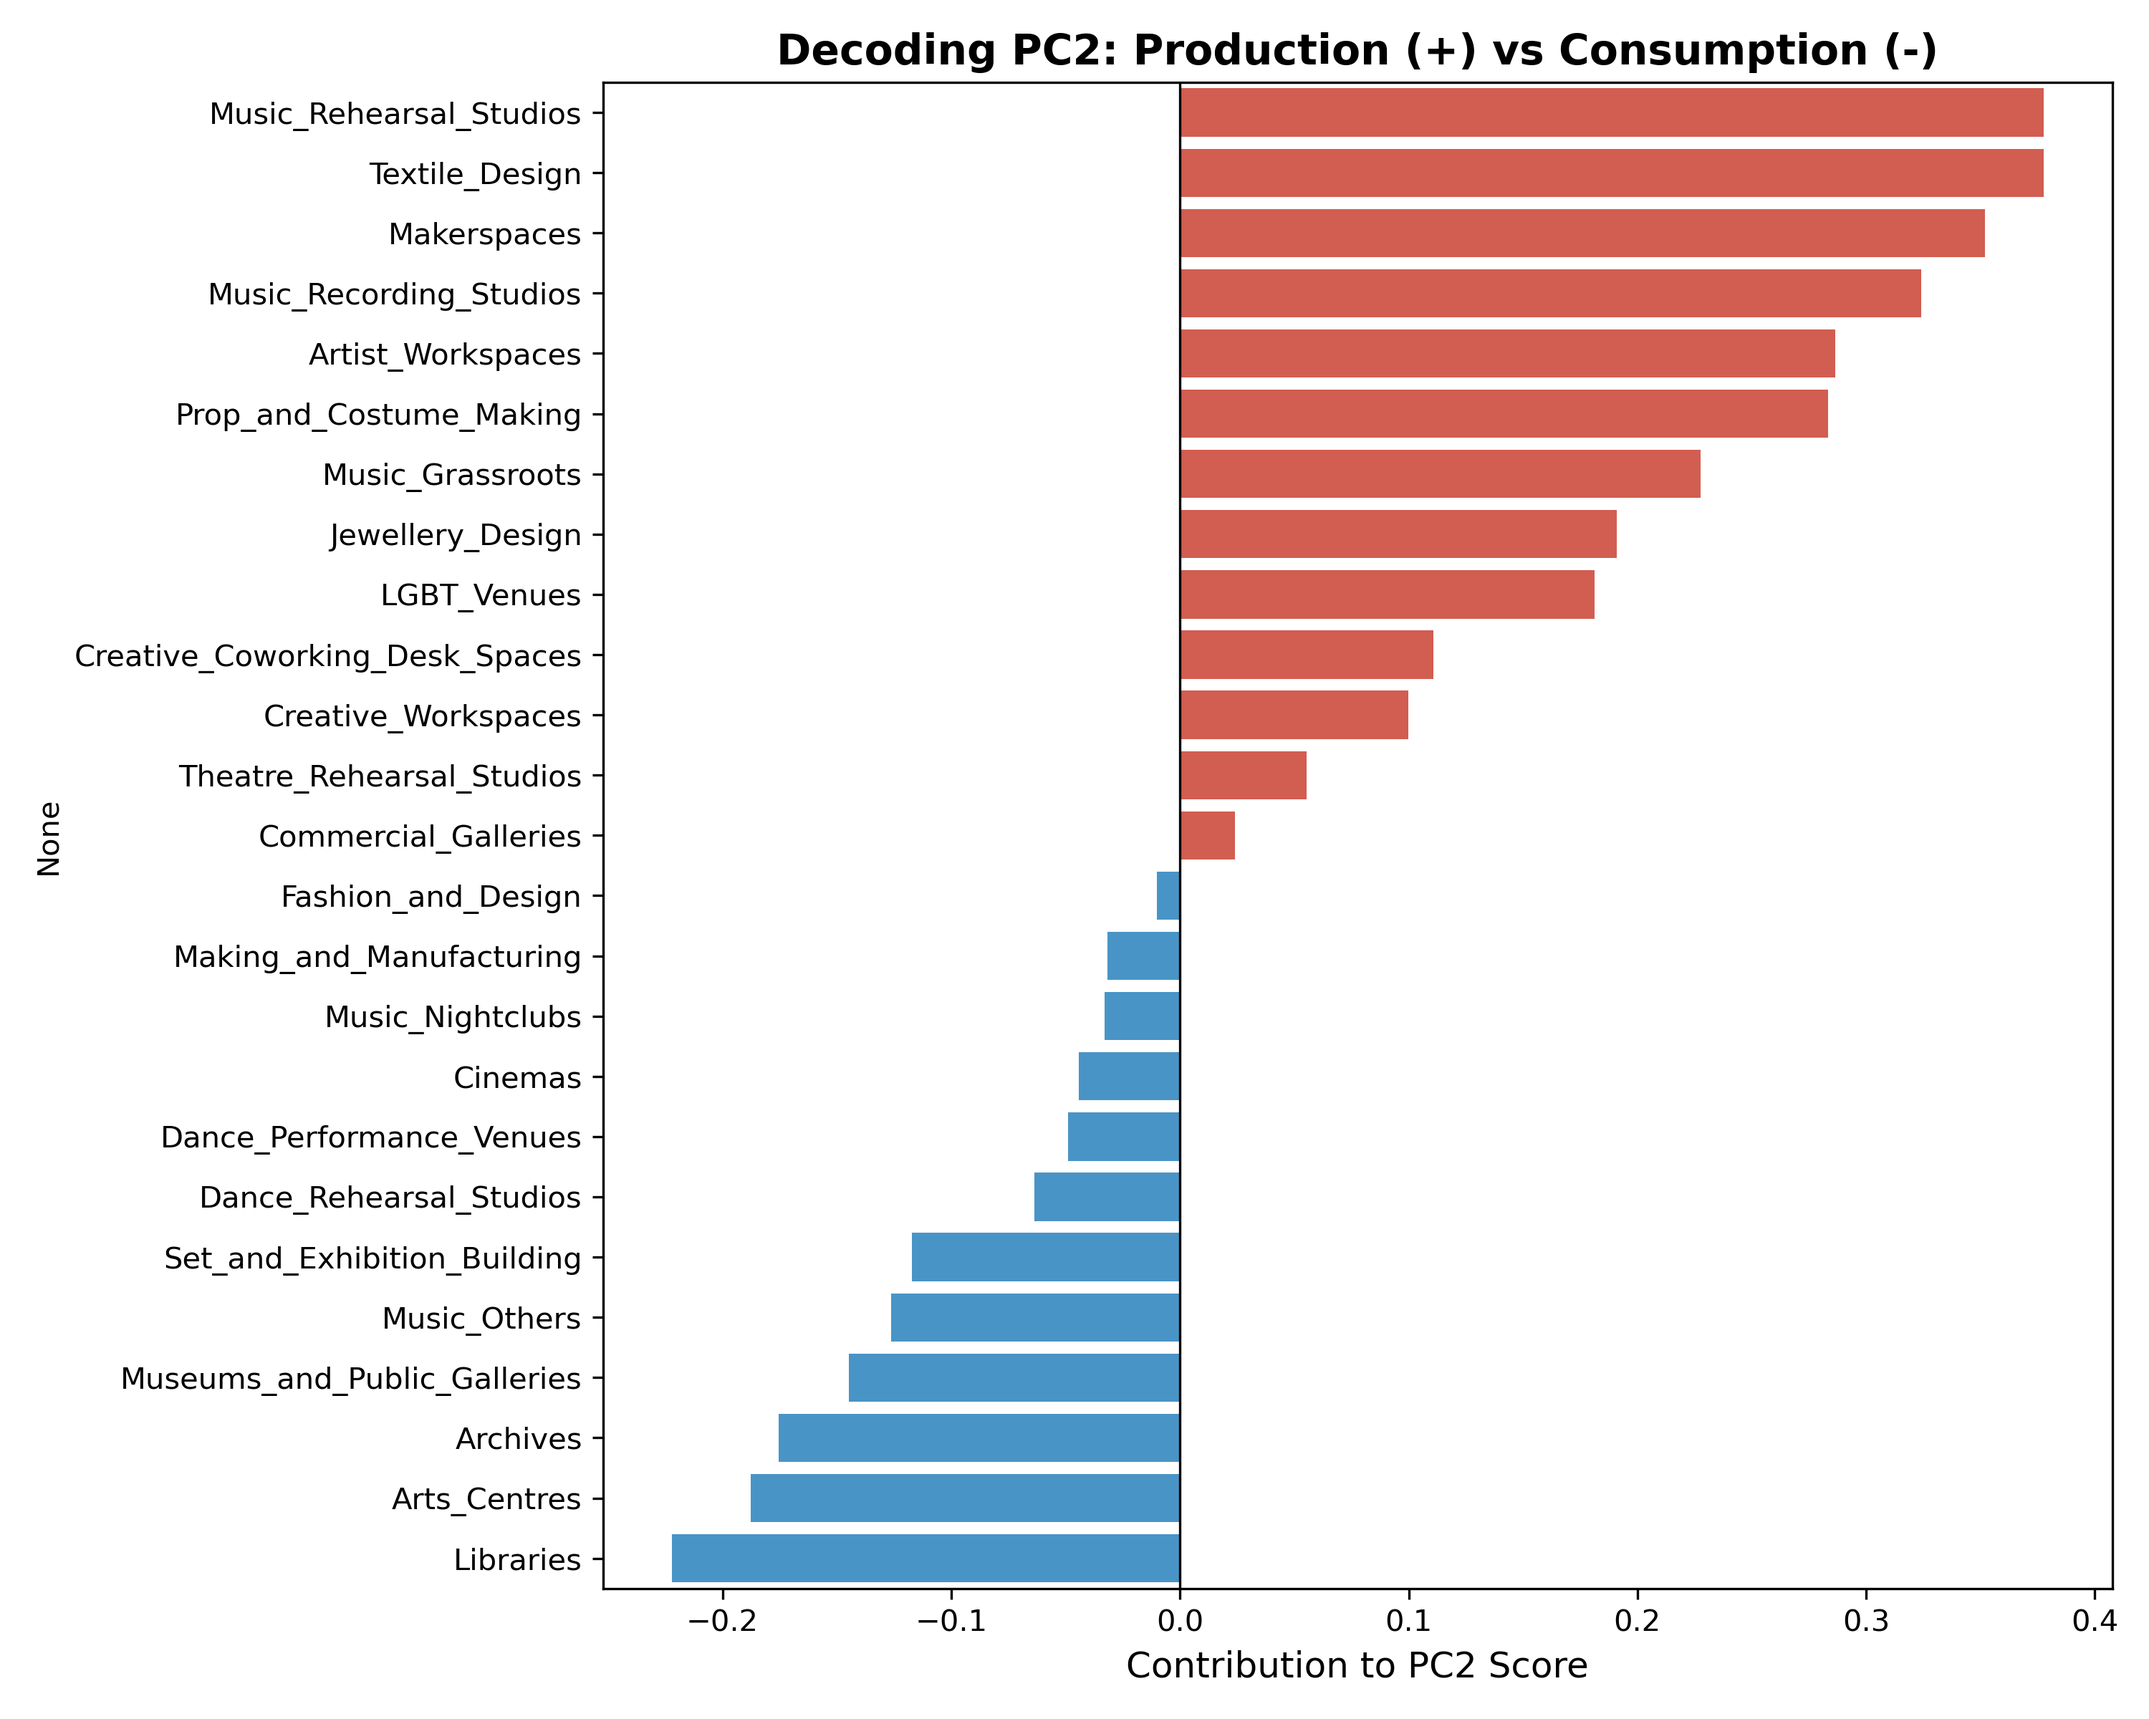
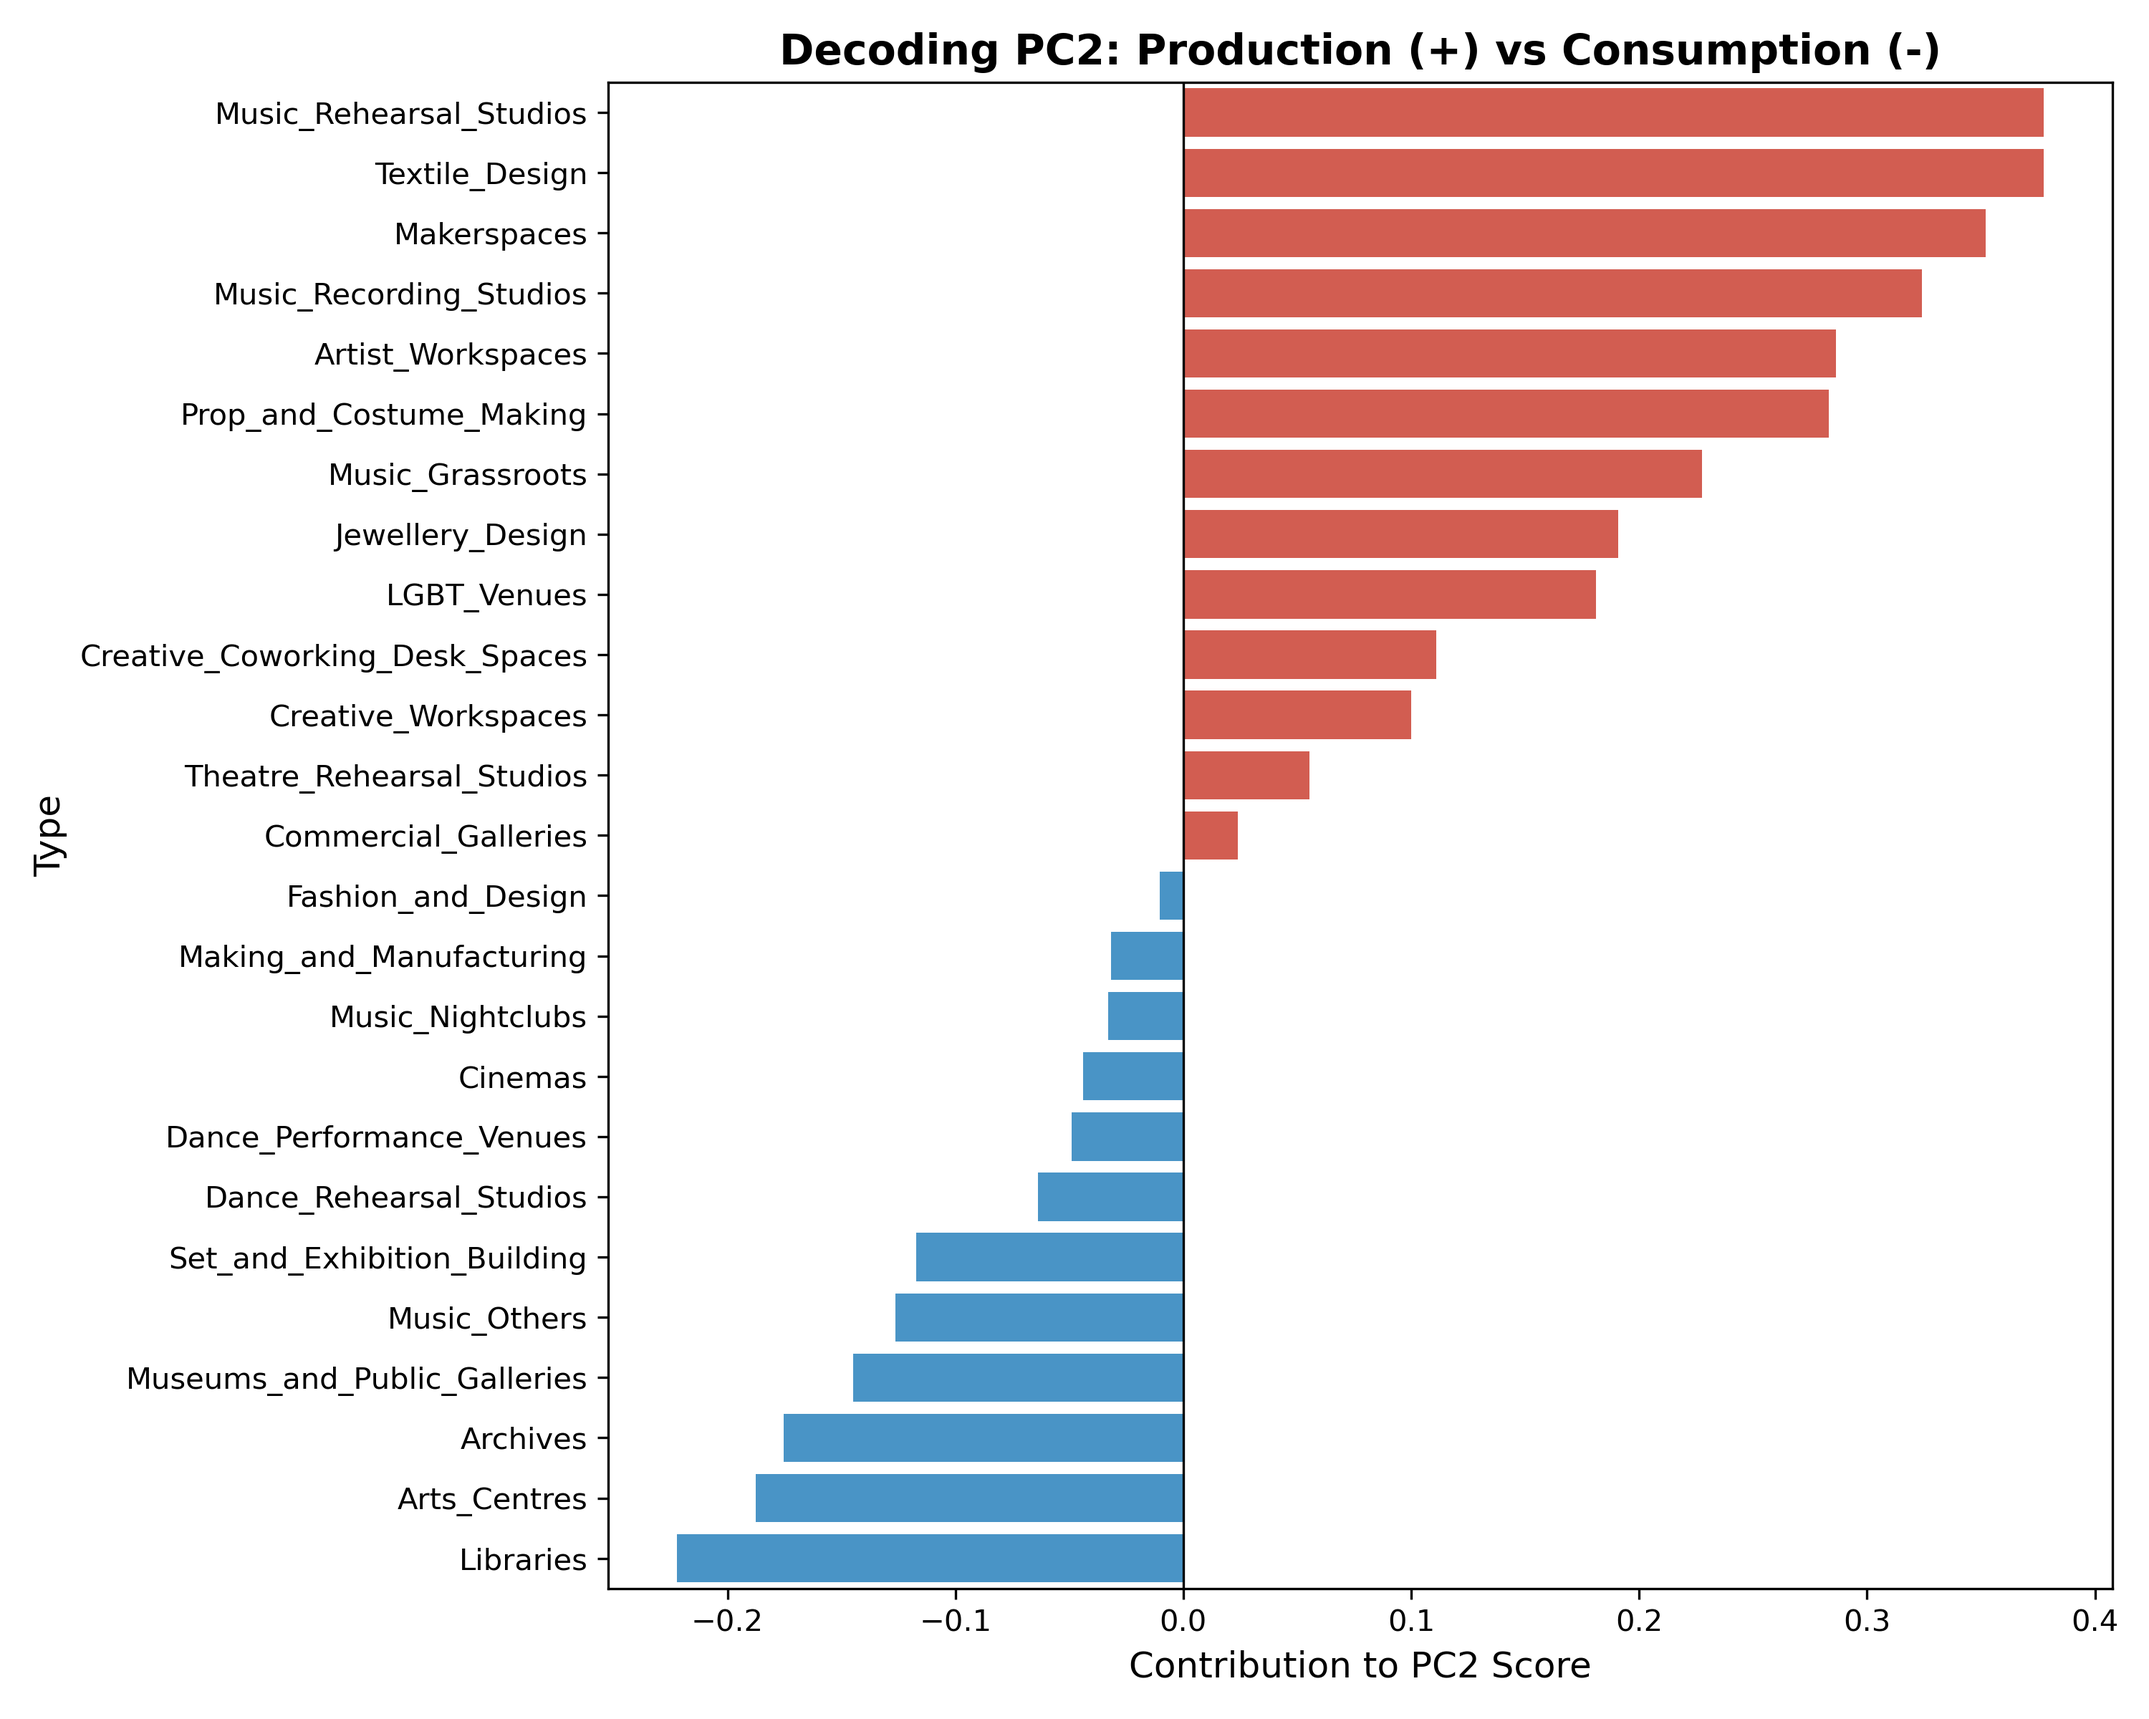
pictures

diff --git a/Assessment/generate_plots.py b/Assessment/generate_plots.py
@@ -46,24 +46,24 @@ loadings = pd.DataFrame(pca.components_.T, columns=['PC1', 'PC2'], index=numeric
 # ==========================================
 # 准备数据
 df_scatter = df_pca_scores.join([df_crime, df_pop], how='inner')
-df_scatter['Violence_Rate'] = (df_scatter['Violence_2023'] / df_scatter['Population']) * 1000
+df_scatter['Total_Crime_Rate'] = (df_scatter['Total_Crime_2023'] / df_scatter['Population']) * 1000
 
 plt.figure(figsize=(10, 6))
 # 绘制带回归线的散点图
-sns.regplot(x='PC2', y='Violence_Rate', data=df_scatter,
+sns.regplot(x='PC2', y='Total_Crime_Rate', data=df_scatter,
             scatter_kws={'s': 100, 'alpha': 0.7, 'color': '#2c3e50'},
             line_kws={'color': '#e74c3c'}) # 红色拟合线
 
 # 标注重要区域
 for i in range(df_scatter.shape[0]):
     # 只标注比较极端的点，避免拥挤
-    if abs(df_scatter['PC2'].iloc[i]) > 1.5 or df_scatter['Violence_Rate'].iloc[i] > 35:
-        plt.text(df_scatter['PC2'].iloc[i]+0.2, df_scatter['Violence_Rate'].iloc[i],
+    if abs(df_scatter['PC2'].iloc[i]) > 1.5 or df_scatter['Total_Crime_Rate'].iloc[i] > 35:
+        plt.text(df_scatter['PC2'].iloc[i]+0.2, df_scatter['Total_Crime_Rate'].iloc[i],
                  df_scatter.index[i], fontsize=9)
 
-plt.title('The "Maker Effect": Creative Production vs Violence Rate', fontsize=14, fontweight='bold')
+plt.title('The "Maker Effect": Creative Production vs Total Crime Rate', fontsize=14, fontweight='bold')
 plt.xlabel('Creative Production Intensity (PC2 Score)', fontsize=12)
-plt.ylabel('Violence Rate (per 1,000 people)', fontsize=12)
+plt.ylabel('Total Crime Rate (per 1,000 people)', fontsize=12)
 plt.grid(True, alpha=0.3)
 plt.savefig('scatter_plot.png', dpi=300)
 plt.show()
@@ -80,6 +80,7 @@ sns.barplot(x=loadings_sorted['PC2'], y=loadings_sorted.index, palette=colors)
 
 plt.title('Decoding PC2: Production (+) vs Consumption (-)', fontsize=14, fontweight='bold')
 plt.xlabel('Contribution to PC2 Score', fontsize=12)
+plt.ylabel('Type', fontsize=12)
 plt.axvline(x=0, color='black', linestyle='-', linewidth=0.8)
 plt.tight_layout()
 plt.savefig('loadings_plot.png', dpi=300)
